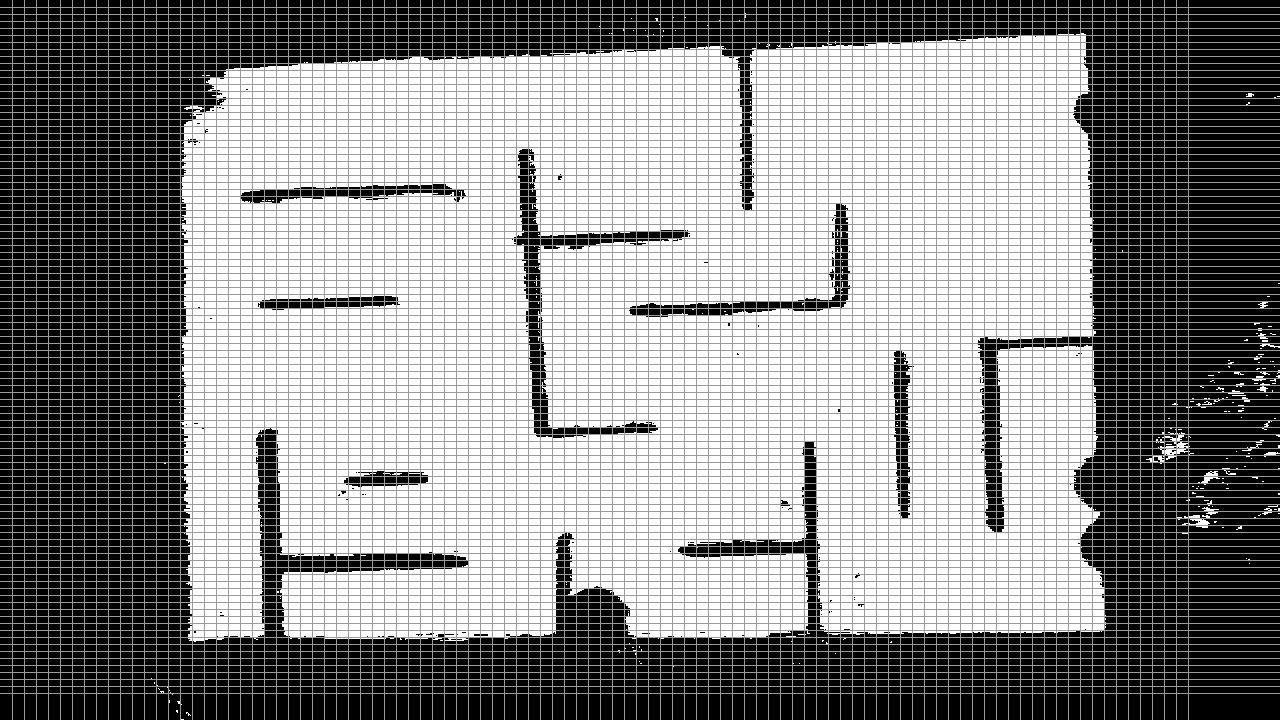
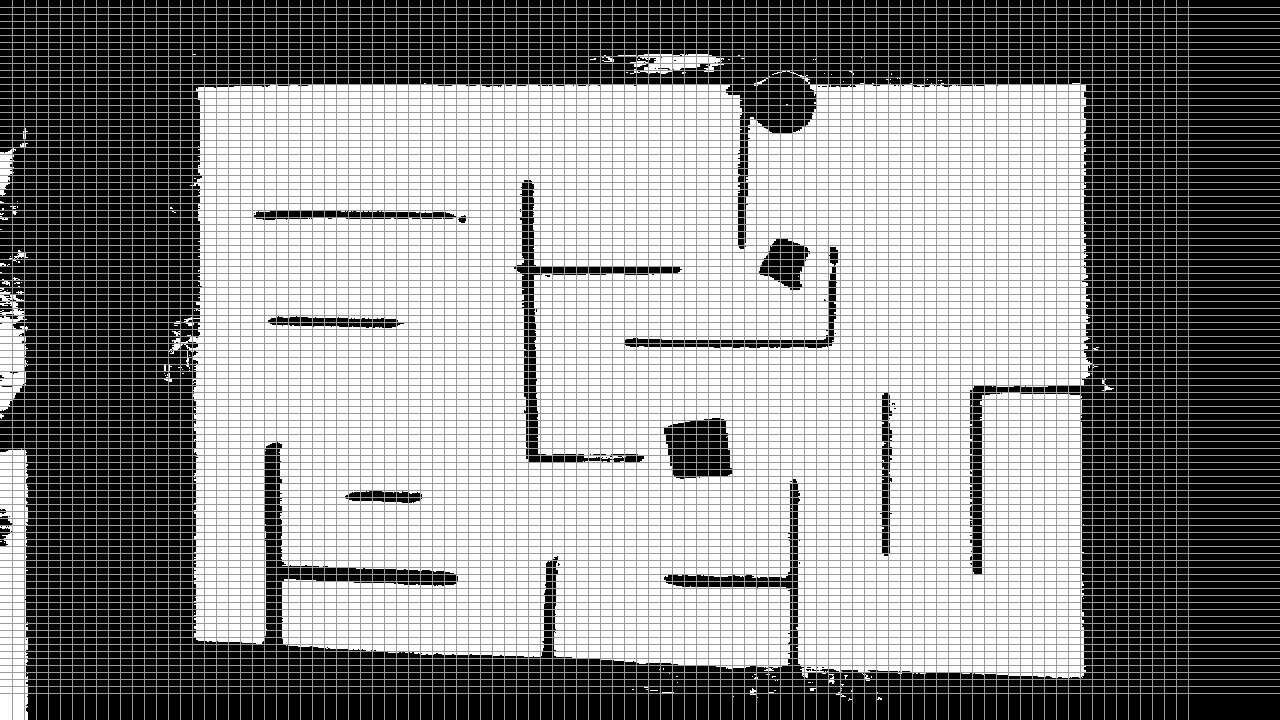
problemas, muchos problemas

diff --git a/videoAMatriz.py b/videoAMatriz.py
@@ -3,6 +3,31 @@ import numpy as np
 from tkinter import *
 from PIL import Image, ImageTk
 import subprocess
+import math
+
+def encontrar_centro_cuadricula(matriz):
+    filas = len(matriz)
+    columnas = len(matriz[0])
+
+    # Encontrar el centro de la cuadrícula
+    centro_fila = filas // 2
+    centro_columna = columnas // 2
+
+    distancia_minima = float('inf')
+    indice_mas_cercano = None
+    # Iterar sobre la matriz
+    for i in range(filas):
+        for j in range(columnas):
+            # Verificar si el elemento es 1 en la cuadrícula
+            if matriz[i][j] == 1:
+                # Calcular la distancia al centro
+                distancia = math.sqrt((centro_fila - i)**2 + (centro_columna - j)**2)
+
+                # Actualizar el índice más cercano si la distancia es menor
+                if distancia < distancia_minima:
+                    distancia_minima = distancia
+                    indice_mas_cercano = (i, j)
+    return indice_mas_cercano
 
 def dibujar_cuadricula(imagen, n):
     alto, ancho = imagen.shape
@@ -62,22 +87,51 @@ def capturar_y_procesar_imagen():
     frame = cv2.resize(frame, (1280, 720))  # Convertir BGR a HSV
     hsv = cv2.cvtColor(frame, cv2.COLOR_BGR2HSV)
 
-    color_tablero = [58, 100, 56, 127, 113, 240]
+    color_tablero = [53, 106, 0, 221, 103, 231]
     color_inicio = [90, 107, 178, 255, 205, 255]
     color_final = [136, 162, 0, 212, 239, 255]
     color_bola = [0, 70, 0, 233, 203, 255]
+    
     maskTablero = crear_mascara(hsv, color_tablero)
     maskInicio = crear_mascara(hsv, color_inicio)
     maskFinal = crear_mascara(hsv, color_final)
     
     fondo_con_cuadricula = dibujar_cuadricula(maskTablero.copy(), n) # Guardar imagen con cuadrícula
+    inicio_con_cuadricula = dibujar_cuadricula(maskInicio.copy(), n) # Guardar imagen con cuadrícula
+    final_con_cuadricula = dibujar_cuadricula(maskFinal.copy(), n) # Guardar imagen con cuadrícula
 
-    cv2.imwrite(ruta_imagen_cuadricula, fondo_con_cuadricula) # Mostrar imagen procesada en Tkinter
+
+    #mostrar inicio con cuadricula
+    cv2.imwrite('inicio_webcgram.jpg', inicio_con_cuadricula) # Mostrar imagen procesada en Tkinter
+    #mostrar_imagen_en_tk(inicio_con_cuadricula, lmain) # Generar matriz de la cuadrícula
+
+    #mostrar final con cuadricula
+    cv2.imwrite('final_webcgram.jpg', final_con_cuadricula) # Mostrar imagen procesada en Tkinter
+    #mostrar_imagen_en_tk(final_con_cuadricula, lmain) # Generar matriz de la cuadrícula
+    
+    #Mostrar fondo con cuadricula
+    cv2.imwrite('fondo_webcgram.jpg', fondo_con_cuadricula) # Mostrar imagen procesada en Tkinter
     mostrar_imagen_en_tk(fondo_con_cuadricula, lmain) # Generar matriz de la cuadrícula
+
 
     # Generar matriz de la cuadrícula
     matriz_cuadricula = generar_matriz_cuadricula(maskTablero, n)
+    # Generar matriz de inicio
+    matriz_inicio = generar_matriz_cuadricula(maskInicio, n)
+    centro_inicial = encontrar_centro_cuadricula(matriz_inicio)
     matriz_str = f"{n} {n} \n" + "\n".join(" ".join(map(str, fila)) for fila in matriz_cuadricula)
+    print(matriz_str) #####BORRAR DESPUES
+    
+    print(centro_inicial) # Encontrar el centro de la cuadrícula
+
+    # Generar matriz de final
+    matriz_final = generar_matriz_cuadricula(maskFinal, n)
+    centro_final = encontrar_centro_cuadricula(matriz_final)
+    print(centro_final)
+
+    matriz_str = f"{n} {n} \n" + "\n".join(" ".join(map(str, fila)) for fila in matriz_cuadricula)
+    print(matriz_str) #####BORRAR DESPUES
+    matriz_str = f"{n} {n} \n" + "\n".join(" ".join(map(str, fila)) for fila in matriz_inicio)
     print(matriz_str) #####BORRAR DESPUES
     process = subprocess.Popen(['./revisar'], stdin=subprocess.PIPE, stdout=subprocess.PIPE, text=True)
 
@@ -123,7 +177,7 @@ btn_mostrar_cuadricula.pack(anchor=CENTER, expand=True) # Botón para mostrar la
 ######TKINTER########
 
 ruta_imagen_webcam = 'imagen_webcam.jpg'
-ruta_imagen_cuadricula = 'imagen_con_cuadricula.jpg'
+ruta_imagen_cuadricula = 'fondo_webcgram.jpg'
 n =100
 
 mostrar_frame()
